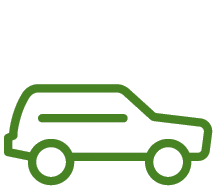
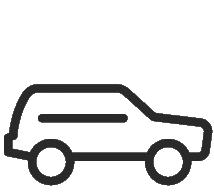
u

Changed region(s): [[0.0, 0.4286, 1.0, 0.949], [0.1682, 0.5816, 0.6168, 0.6429]]

diff --git a/src/AppBundle/Resources/public/less/common.less b/src/AppBundle/Resources/public/less/common.less
@@ -88,6 +88,7 @@ ul.nav.navbar-nav {
   text-transform: uppercase;
   font-weight: bold;
   padding: 20px;
+  padding-top: 40px;
 }
 .black{
   color: #333;
@@ -137,7 +138,7 @@ p{
   padding-bottom: 50px;
 }
 .block-8{
-  padding-top: 30px;
+  //padding-top: 30px;
   padding-bottom: 50px;
 }
 .block-7{
@@ -154,7 +155,7 @@ footer{
 
 textarea, input{
   background: #FFF;
-  border: 1px solid #EEE;
+  border: 1px solid @color-gray;
   text-align: center;
   padding: 10px;
   border-radius: 10px;
@@ -175,8 +176,8 @@ ul{
 }
 
 .t-2{
-  background: @color-gray;
-  border: 10px solid @color-gray;
+  background: lighten(@color-gray, 10);
+  border: 10px solid darken(@color-gray, 10);
   padding: 40px 20px;
   width: 60%;
   float: right;
@@ -184,7 +185,7 @@ ul{
 }
 .t-1{
   background: #FFF;
-  border: 10px solid @color-green;
+  border: 10px solid darken(@color-green, 10);
   padding: 40px 20px;
   width: 50%;
   margin-top: 100px;
@@ -192,7 +193,7 @@ ul{
 }
 .t-3{
   background: none;
-  border: 10px solid @color-gray;
+  border: 10px solid darken(@color-gray, 10);
   padding: 40px 20px;
   width: 60%;
   margin-top: -40px;
@@ -201,7 +202,7 @@ ul{
 }
 .t-4{
   background: #FFF;
-  border: 10px solid @color-green;
+  border: 10px solid darken(@color-green, 10);
   padding: 40px 20px;
   width: 30%;
   float: right;
@@ -214,7 +215,7 @@ ul{
   -webkit-background-size: 100%; /* Safari 3.1+ и Chrome 4.0+ */
   -o-background-size: 100%; /* Opera 9.6+ */
   background-size: 100%; /* Современные браузеры */
-  height: 700px;
+  height: 725px;
 }
 .img-e{
   width: 64px;
@@ -270,4 +271,10 @@ ul{
 #adrs{
   font-size: 17px;
   color: darken(@color-gray,50);
+}
+
+.subtitle {
+  font-size: 24px;
+  margin-top: 40px;
+  text-transform: uppercase;
 }

diff --git a/src/AppBundle/Resources/public/less/common.css b/src/AppBundle/Resources/public/less/common.css
@@ -97,6 +97,7 @@ ul.nav.navbar-nav li a {
   text-transform: uppercase;
   font-weight: bold;
   padding: 20px;
+  padding-top: 40px;
 }
 .black {
   color: #333;
@@ -142,7 +143,6 @@ p {
   padding-bottom: 50px;
 }
 .block-8 {
-  padding-top: 30px;
   padding-bottom: 50px;
 }
 .block-7 {
@@ -158,7 +158,7 @@ footer {
 textarea,
 input {
   background: #FFF;
-  border: 1px solid #EEE;
+  border: 1px solid #d0d0d0;
   text-align: center;
   padding: 10px;
   border-radius: 10px;
@@ -178,8 +178,8 @@ ul li {
   padding-bottom: 30px;
 }
 .t-2 {
-  background: #d0d0d0;
-  border: 10px solid #d0d0d0;
+  background: #eaeaea;
+  border: 10px solid #b7b7b7;
   padding: 40px 20px;
   width: 60%;
   float: right;
@@ -187,7 +187,7 @@ ul li {
 }
 .t-1 {
   background: #FFF;
-  border: 10px solid #478323;
+  border: 10px solid #315b18;
   padding: 40px 20px;
   width: 50%;
   margin-top: 100px;
@@ -195,7 +195,7 @@ ul li {
 }
 .t-3 {
   background: none;
-  border: 10px solid #d0d0d0;
+  border: 10px solid #b7b7b7;
   padding: 40px 20px;
   width: 60%;
   margin-top: -40px;
@@ -204,7 +204,7 @@ ul li {
 }
 .t-4 {
   background: #FFF;
-  border: 10px solid #478323;
+  border: 10px solid #315b18;
   padding: 40px 20px;
   width: 30%;
   float: right;
@@ -221,7 +221,7 @@ ul li {
   /* Opera 9.6+ */
   background-size: 100%;
   /* Современные браузеры */
-  height: 700px;
+  height: 725px;
 }
 .img-e {
   width: 64px;
@@ -278,4 +278,9 @@ ul li {
 #adrs {
   font-size: 17px;
   color: #515151;
+}
+.subtitle {
+  font-size: 24px;
+  margin-top: 40px;
+  text-transform: uppercase;
 }

diff --git a/src/AppBundle/Controller/DefaultController.php b/src/AppBundle/Controller/DefaultController.php
@@ -21,7 +21,7 @@ class DefaultController extends Controller
             $message = \Swift_Message::newInstance()
                 ->setSubject('Запрос сайта')
                 ->setFrom('urist@urist.ru')
-                ->setTo('bhd.m@ya.ru')
+                ->setTo('admin@pristav77.ru')
                 ->setBody(
                     $this->renderView(
                         '@App/registration.html.twig',
